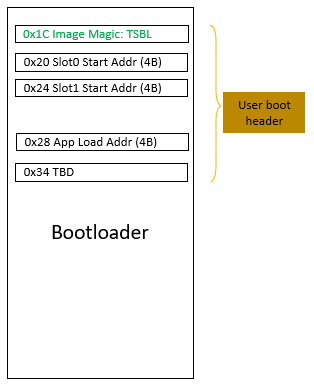
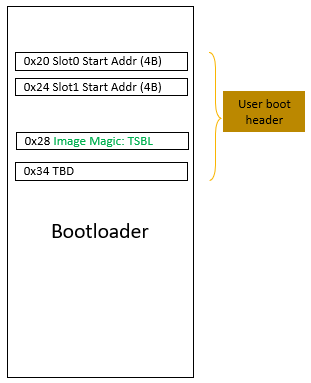
Can make app image #4
- Set Magic as one of auth type for application image making

diff --git a/src/mem/memcore.py b/src/mem/memcore.py
@@ -257,11 +257,16 @@ class tinyOtaMem(runcore.tinyOtaRun):
                 pos = end_pos
         return crc.final()
 
-    def _getImageCrcType( self, loadAddr ):
-        if loadAddr == 0x0:
-            return memdef.kImageAuthType_XipCRC32
+    def _getImageAuthType( self, loadAddr ):
+        if self.integrity == uidef.kIntegrityType_CRC32:
+            if loadAddr == 0x0:
+                return memdef.kImageAuthType_XipCRC32
+            else:
+                return memdef.kImageAuthType_NonxipCRC32
+        elif self.integrity == uidef.kIntegrityType_Magic:
+            return memdef.kImageAuthType_Magic
         else:
-            return memdef.kImageAuthType_NonxipCRC32
+            return 0
 
     def makeOtaFile( self, fileType = 'stage1Bl' ):
         if fileType == uidef.kOtaFileType_S1BL:
@@ -274,10 +279,9 @@ class tinyOtaMem(runcore.tinyOtaRun):
                 return False
             shutil.copy(self.stage1BlFile, self.stage1BlFileTemp)
             appWordOffsetInBinary = (self.tgt.bootImageOffset - self.tgt.xspiNorCfgInfoOffset) >> 2
-            self.replace_word_in_binary(self.stage1BlFileTemp, appWordOffsetInBinary + memdef.kImageHeaderWordOffset_Magic, memdef.kImageHeaderMagicWord_Boot)
             self.replace_word_in_binary(self.stage1BlFileTemp, appWordOffsetInBinary + memdef.kImageHeaderWordOffset_App0LoadAddr, app0MemStart)
             self.replace_word_in_binary(self.stage1BlFileTemp, appWordOffsetInBinary + memdef.kImageHeaderWordOffset_App1LoadAddr, app1MemStart)
-            self.replace_word_in_binary(self.stage1BlFileTemp, appWordOffsetInBinary + memdef.kImageHeaderWordOffset_AppLoadAddr, self.appLoadAddr)
+            self.replace_word_in_binary(self.stage1BlFileTemp, appWordOffsetInBinary + memdef.kImageHeaderWordOffset_Magic, memdef.kImageHeaderMagicWord_Boot)
         elif fileType == uidef.kOtaFileType_APP0:
             version = self.getAppVersion(0)
             if version == None:
@@ -286,13 +290,18 @@ class tinyOtaMem(runcore.tinyOtaRun):
             if self.appLoadAddr == None:
                 return False
             shutil.copy(self.appSlot0File, self.appSlot0FileTemp)
-            self.pad_file_to_4byte_alignment(self.appSlot0FileTemp, b"\xFF")
-            self.replace_word_in_binary(self.appSlot0FileTemp, memdef.kImageHeaderWordOffset_Magic, memdef.kImageHeaderMagicWord_App)
-            self.replace_word_in_binary(self.appSlot0FileTemp, memdef.kImageHeaderWordOffset_Length, os.path.getsize(self.appSlot0FileTemp))
+            self.replace_word_in_binary(self.appSlot0FileTemp, memdef.kImageHeaderWordOffset_AuthType, ((version << 16) + self._getImageAuthType(self.appLoadAddr)))
             self.replace_word_in_binary(self.appSlot0FileTemp, memdef.kImageHeaderWordOffset_LoadAddr, self.appLoadAddr)
-            self.replace_word_in_binary(self.appSlot0FileTemp, memdef.kImageHeaderWordOffset_AuthType, ((version << 16) + self._getImageCrcType(self.appLoadAddr)))
-            crc32 = self.calc_crc32_mpeg2_excluding_word(self.appSlot0FileTemp, memdef.kImageHeaderWordOffset_Crc32)
-            self.replace_word_in_binary(self.appSlot0FileTemp, memdef.kImageHeaderWordOffset_Crc32, crc32)
+            if self.integrity == uidef.kIntegrityType_CRC32:
+                self.pad_file_to_4byte_alignment(self.appSlot0FileTemp, b"\xFF")
+                self.replace_word_in_binary(self.appSlot0FileTemp, memdef.kImageHeaderWordOffset_Length, os.path.getsize(self.appSlot0FileTemp))
+                crc32 = self.calc_crc32_mpeg2_excluding_word(self.appSlot0FileTemp, memdef.kImageHeaderWordOffset_Crc32)
+                self.replace_word_in_binary(self.appSlot0FileTemp, memdef.kImageHeaderWordOffset_Crc32, crc32)
+            elif self.integrity == uidef.kIntegrityType_Magic:
+                self.replace_word_in_binary(self.appSlot0FileTemp, memdef.kImageHeaderWordOffset_Length, os.path.getsize(self.appSlot0FileTemp))
+                self.replace_word_in_binary(self.appSlot0FileTemp, memdef.kImageHeaderWordOffset_Magic, memdef.kImageHeaderMagicWord_App)
+            else:
+                pass
         elif fileType == uidef.kOtaFileType_APP1:
             version = self.getAppVersion(1)
             if version == None:
@@ -301,13 +310,18 @@ class tinyOtaMem(runcore.tinyOtaRun):
             if self.appLoadAddr == None:
                 return False
             shutil.copy(self.appSlot1File, self.appSlot1FileTemp)
-            self.pad_file_to_4byte_alignment(self.appSlot1FileTemp, b"\xFF")
-            self.replace_word_in_binary(self.appSlot1FileTemp, memdef.kImageHeaderWordOffset_Magic, memdef.kImageHeaderMagicWord_App)
-            self.replace_word_in_binary(self.appSlot1FileTemp, memdef.kImageHeaderWordOffset_Length, os.path.getsize(self.appSlot1FileTemp))
+            self.replace_word_in_binary(self.appSlot1FileTemp, memdef.kImageHeaderWordOffset_AuthType, ((version << 16) + self._getImageAuthType(self.appLoadAddr)))
             self.replace_word_in_binary(self.appSlot1FileTemp, memdef.kImageHeaderWordOffset_LoadAddr, self.appLoadAddr)
-            self.replace_word_in_binary(self.appSlot1FileTemp, memdef.kImageHeaderWordOffset_AuthType, ((version << 16) + self._getImageCrcType(self.appLoadAddr)))
-            crc32 = self.calc_crc32_mpeg2_excluding_word(self.appSlot1FileTemp, memdef.kImageHeaderWordOffset_Crc32)
-            self.replace_word_in_binary(self.appSlot1FileTemp, memdef.kImageHeaderWordOffset_Crc32, crc32)
+            if self.integrity == uidef.kIntegrityType_CRC32:
+                self.pad_file_to_4byte_alignment(self.appSlot1FileTemp, b"\xFF")
+                self.replace_word_in_binary(self.appSlot1FileTemp, memdef.kImageHeaderWordOffset_Length, os.path.getsize(self.appSlot1FileTemp))
+                crc32 = self.calc_crc32_mpeg2_excluding_word(self.appSlot1FileTemp, memdef.kImageHeaderWordOffset_Crc32)
+                self.replace_word_in_binary(self.appSlot1FileTemp, memdef.kImageHeaderWordOffset_Crc32, crc32)
+            elif self.integrity == uidef.kIntegrityType_Magic:
+                self.replace_word_in_binary(self.appSlot1FileTemp, memdef.kImageHeaderWordOffset_Length, os.path.getsize(self.appSlot1FileTemp))
+                self.replace_word_in_binary(self.appSlot1FileTemp, memdef.kImageHeaderWordOffset_Magic, memdef.kImageHeaderMagicWord_App)
+            else:
+                pass
         else:
             return False
         return True

diff --git a/src/ui/uicore.py b/src/ui/uicore.py
@@ -63,7 +63,8 @@ class tinyOtaUi(QMainWindow, tinyOtaWin.Ui_tinyOtaWin):
         self.toolCommDict = toolCommDict.copy()
 
         self.imgFolder = os.path.join(self.exeTopRoot, 'img')
-        self.appPictureFile = os.path.join(self.imgFolder, 'app.png')
+        self.appMagicPictureFile = os.path.join(self.imgFolder, 'app_magic.png')
+        self.appCrc32PictureFile = os.path.join(self.imgFolder, 'app_crc32.png')
         self.bootPictureFile = os.path.join(self.imgFolder, 'boot.png')
         self.singleCorePictureFile = os.path.join(self.imgFolder, 'all_single_core.png')
         self.dualCorePictureFile = os.path.join(self.imgFolder, 'all_dual_core.png')
@@ -109,10 +110,14 @@ class tinyOtaUi(QMainWindow, tinyOtaWin.Ui_tinyOtaWin):
         self.usbhidToConnect = [None] * 2
         self.blMode = None
         self._initBlModeValue()
+        self.integrity = None
+        self._initIntegrityValue()
 
-    def showImagePiture( self, picType = 'app' ):
-        if picType == 'app':
-            path = self.appPictureFile
+    def showImagePiture( self, picType = 'app_magic' ):
+        if picType == 'app_magic':
+            path = self.appMagicPictureFile
+        elif picType == 'app_crc32':
+            path = self.appCrc32PictureFile
         elif picType == 'boot':
             path = self.bootPictureFile
         elif picType == 'all_single_core':
@@ -722,6 +727,15 @@ class tinyOtaUi(QMainWindow, tinyOtaWin.Ui_tinyOtaWin):
             self.popupMsgBox('Version Major/Minor format error, it should be 0-255')
         uivar.setAdvancedSettings(uidef.kAdvancedSettings_Tool, self.toolCommDict)
         return version
+
+    def _initIntegrityValue( self ):
+        self.comboBox_integrity.setCurrentIndex(self.toolCommDict['integrity'])
+        self.setIntegrityValue()
+
+    def setIntegrityValue( self ):
+        self.integrity = self.comboBox_integrity.currentIndex()
+        self.toolCommDict['integrity'] = self.integrity
+        uivar.setAdvancedSettings(uidef.kAdvancedSettings_Tool, self.toolCommDict)
 
     def printMem( self , memStr ):
         self.textEdit_memWin.append(memStr)

diff --git a/src/main.py b/src/main.py
@@ -111,6 +111,7 @@ class tinyOtaMain(memcore.tinyOtaMem):
         self.comboBox_xspiInstance.currentIndexChanged.connect(self.callbackSetXspiInstance)
         self.comboBox_interface.currentIndexChanged.connect(self.callbackSetInterface)
         self.comboBox_blMode.currentIndexChanged.connect(self.callbackSetBlMode)
+        self.comboBox_integrity.currentIndexChanged.connect(self.callbackSetIntegrity)
         self.pushButton_connect.clicked.connect(self.callbackConnectToDevice)
         self.pushButton_read.clicked.connect(self.callbackReadMem)
         self.pushButton_write.clicked.connect(self.callbackWriteMem)
@@ -307,6 +308,17 @@ class tinyOtaMain(memcore.tinyOtaMem):
         self.updateOtaMakeStatus(uidef.kOtaFileType_APP1, 0)
         self.updateOtaOperateStatus(uidef.kOtaFileType_APP1, 0)
 
+    def callbackSetIntegrity( self ):
+        self.setIntegrityValue()
+
+    def _showAppImagePicture( self ):
+        if self.integrity == uidef.kIntegrityType_Magic:
+            self.showImagePiture('app_magic')
+        elif self.integrity == uidef.kIntegrityType_CRC32:
+            self.showImagePiture('app_crc32')
+        else:
+            pass
+
     def _makeOtaFile( self, fileType ):
         if self.makeOtaFile(fileType):
             self.updateOtaMakeStatus(fileType, 1)
@@ -317,10 +329,10 @@ class tinyOtaMain(memcore.tinyOtaMem):
         self.showImagePiture('boot')
         self._makeOtaFile(uidef.kOtaFileType_S1BL)
     def callbackMakeAPP0( self ):
-        self.showImagePiture('app')
+        self._showAppImagePicture()
         self._makeOtaFile(uidef.kOtaFileType_APP0)
     def callbackMakeAPP1( self ):
-        self.showImagePiture('app')
+        self._showAppImagePicture()
         self._makeOtaFile(uidef.kOtaFileType_APP1)
 
     def _startDownloadOtaTask( self, fileType ):

diff --git a/src/win/tinyOtaWin.py b/src/win/tinyOtaWin.py
@@ -405,6 +405,7 @@ class Ui_tinyOtaWin(object):
         self.comboBox_integrity.setGeometry(QtCore.QRect(430, 40, 81, 22))
         self.comboBox_integrity.setObjectName("comboBox_integrity")
         self.comboBox_integrity.addItem("")
+        self.comboBox_integrity.addItem("")
         self.pushButton_makeAPP0 = QtWidgets.QPushButton(self.otaFrame)
         self.pushButton_makeAPP0.setGeometry(QtCore.QRect(520, 100, 81, 25))
         font = QtGui.QFont()
@@ -633,7 +634,8 @@ class Ui_tinyOtaWin(object):
         self.label_v1p.setText(_translate("tinyOtaWin", "."))
         self.label_v0p.setText(_translate("tinyOtaWin", "."))
         self.label_integrity.setText(_translate("tinyOtaWin", "Integrity"))
-        self.comboBox_integrity.setItemText(0, _translate("tinyOtaWin", "CRC32"))
+        self.comboBox_integrity.setItemText(0, _translate("tinyOtaWin", "Magic"))
+        self.comboBox_integrity.setItemText(1, _translate("tinyOtaWin", "CRC32"))
         self.pushButton_makeAPP0.setText(_translate("tinyOtaWin", "Make App0"))
         self.pushButton_makeAPP1.setText(_translate("tinyOtaWin", "Make App1"))
         self.pushButton_downloadAPP0.setText(_translate("tinyOtaWin", "Download App0"))

diff --git a/src/ui/uilang.py b/src/ui/uilang.py
@@ -26,9 +26,10 @@ kRevision_1_0_0_en =  "【v1.0.0】 \n" + \
                       "     6. Support application image making(Len, CRC32, Version, Magic) and downloading\n\n"
 kRevision_1_1_0_en =  "【v1.1.0】 \n" + \
                       "  Improvement: \n" + \
-                      "     1. Pad application image file length to 4B alignment for CRC32 calculation \n" + \
-                      "     2. Adjust bootloader image header definition(Magic) \n" + \
-                      "     3. Adjust application image header definition(Magic, Version, AuthType, LoadAddr) to align with MCXA1 or RT3digits\n\n"
+                      "     1. Set Magic as one of auth type for application image making\n" + \
+                      "     2. Pad application image file length to 4B alignment for CRC32 calculation \n" + \
+                      "     3. Adjust bootloader image header definition(Magic) \n" + \
+                      "     4. Adjust application image header definition(Version, AuthType, LoadAddr) to align with MCXA1 or RT3digits\n\n"
 
 kMsgLanguageContentDict = {
         'homePage_title':                     ['Home Page'],

diff --git a/src/mem/memdef.py b/src/mem/memdef.py
@@ -5,17 +5,17 @@ kAppImageFileExtensionList_S19 = ['.srec', '.s19', '.mot', '.mxt', '.m32', '.s28
 kAppImageFileExtensionList_Hex = ['.hex']
 kAppImageFileExtensionList_Bin = ['.bin']
 
+kImageAuthType_Magic        = 0x0100
 kImageAuthType_NonxipCRC32  = 0x0002
 kImageAuthType_XipCRC32     = 0x0005
 
-kImageHeaderWordOffset_Magic    = 7
 kImageHeaderWordOffset_Length   = 8
 kImageHeaderWordOffset_AuthType = 9
+kImageHeaderWordOffset_Magic    = 10
 kImageHeaderWordOffset_Crc32    = 10
 kImageHeaderWordOffset_LoadAddr = 13
 kImageHeaderMagicWord_App    =0x50504154 #0x54 ('T'), 0x41 ('A'), 0x50 ('P'), 0x50 ('P')
 
 kImageHeaderWordOffset_App0LoadAddr = 8
 kImageHeaderWordOffset_App1LoadAddr = 9
-kImageHeaderWordOffset_AppLoadAddr  = 10
 kImageHeaderMagicWord_Boot   =0x4C425354 #0x54 ('T'), 0x53 ('S'), 0x42 ('B'), 0x4C ('L')

diff --git a/src/ui/uivar.py b/src/ui/uivar.py
@@ -23,6 +23,7 @@ g_toolCommDict = {'mcuDevice':None,
                   'fileStartS0BL':None,
                   'fileStartS1BL':None,
                   'fileStartAPP0':None,
+                  'integrity':None,
                   'app0VersionH':None,
                   'app0VersionL':None,
                   'app1VersionH':None,
@@ -63,6 +64,7 @@ def initVar(cfgFilename):
                           'fileStartS1BL':'0x0',
                           'fileStartAPP0':'0x0',
                           'fileStartAPP1':'0x0',
+                          'integrity':0,
                           'app0VersionH':'255',
                           'app0VersionL':'255',
                           'app1VersionH':'255',

diff --git a/src/ui/uidef.py b/src/ui/uidef.py
@@ -107,3 +107,6 @@ kOtaFileType_S0BL = 'stage0Bl'
 kOtaFileType_S1BL = 'stage1Bl'
 kOtaFileType_APP0 = 'appSlot0'
 kOtaFileType_APP1 = 'appSlot1'
+
+kIntegrityType_Magic = 0
+kIntegrityType_CRC32 = 1
